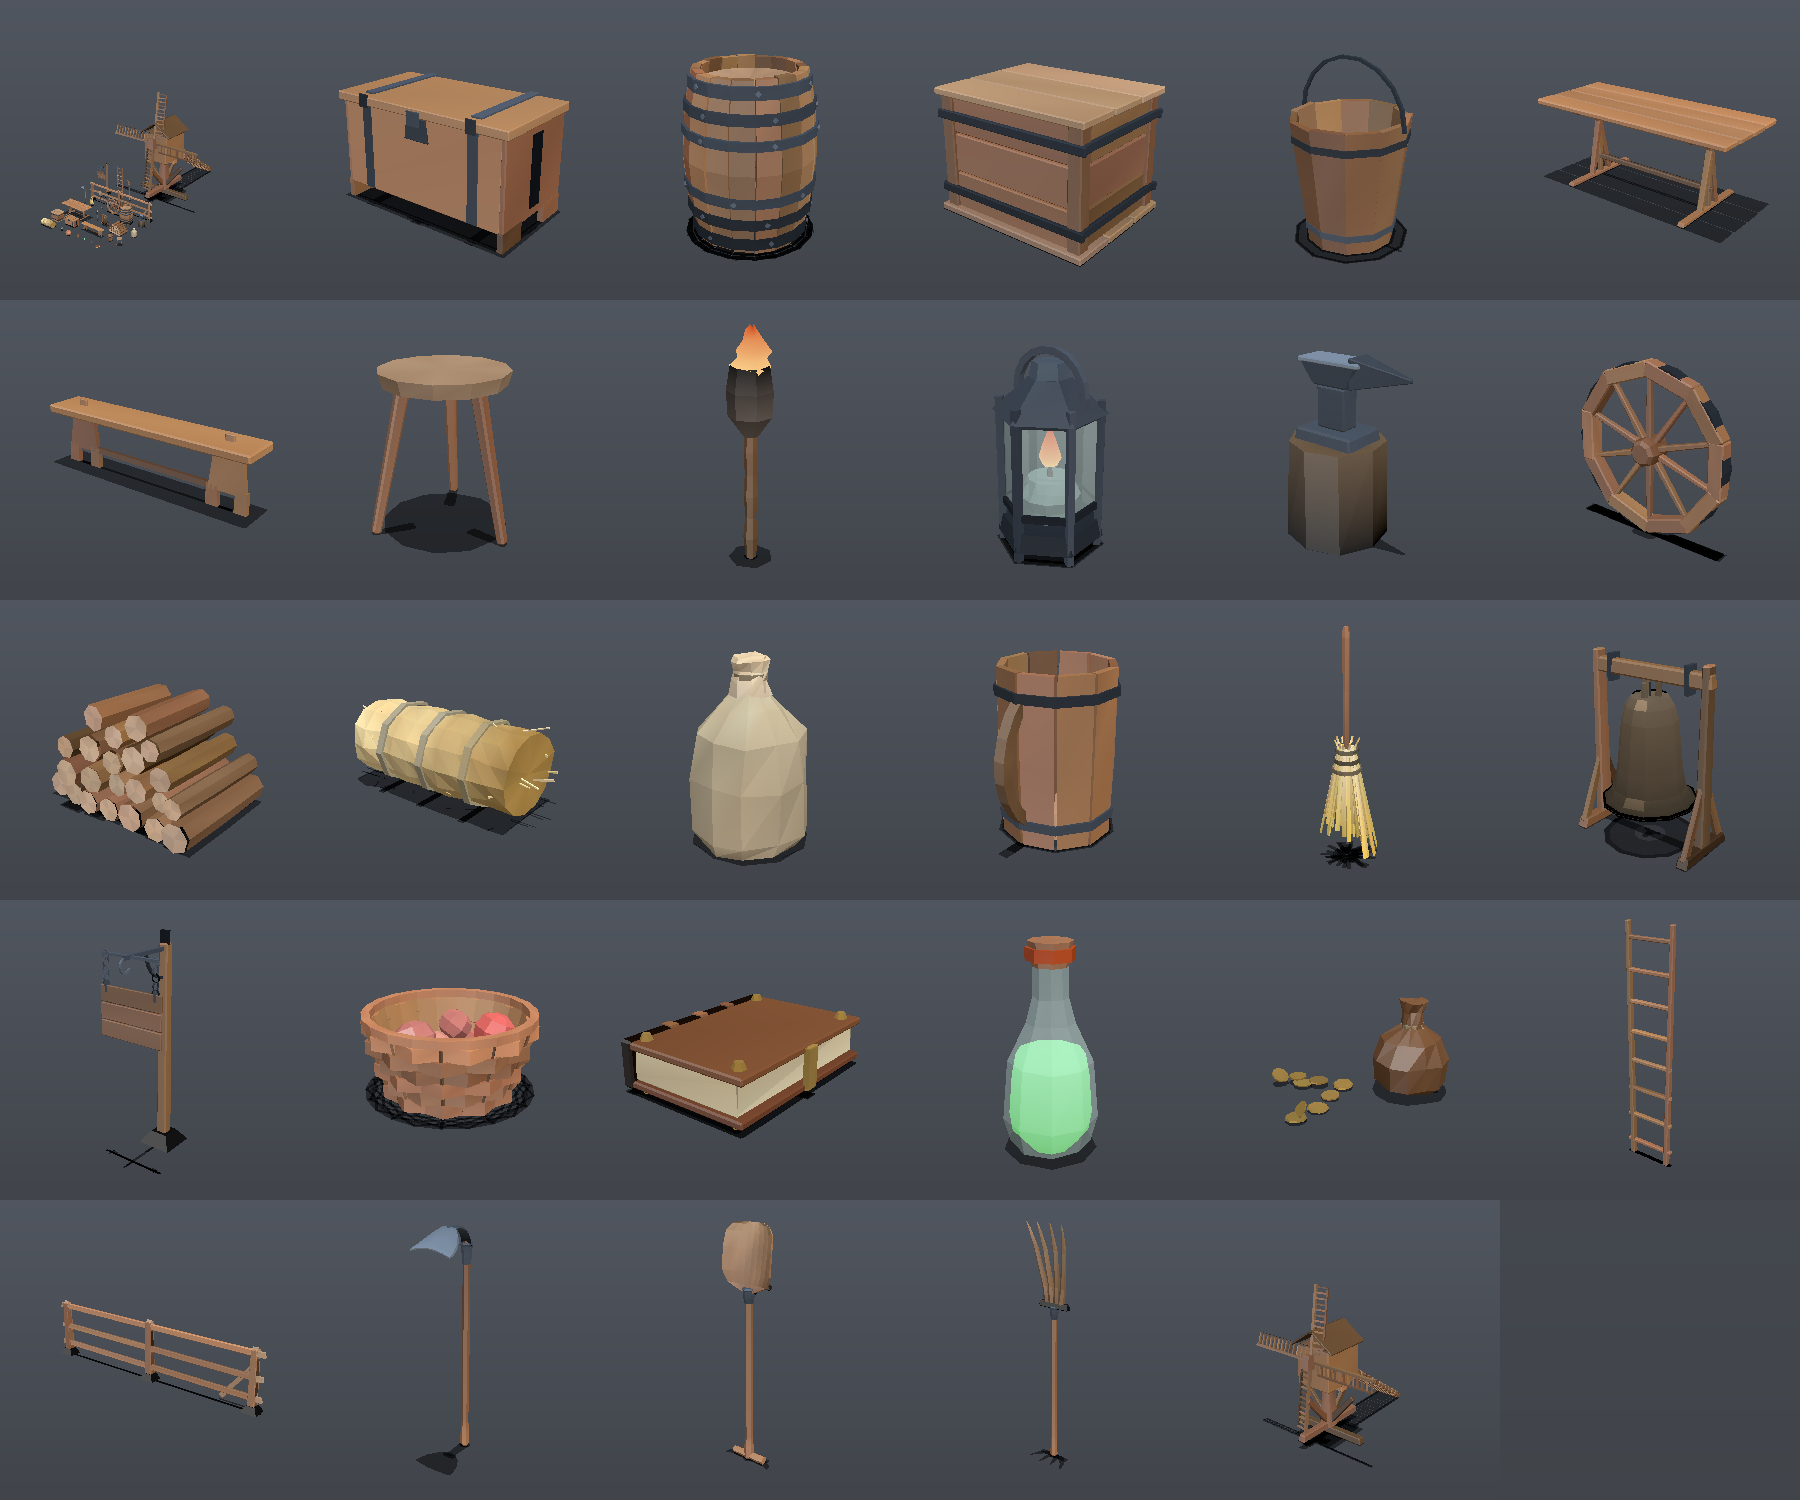
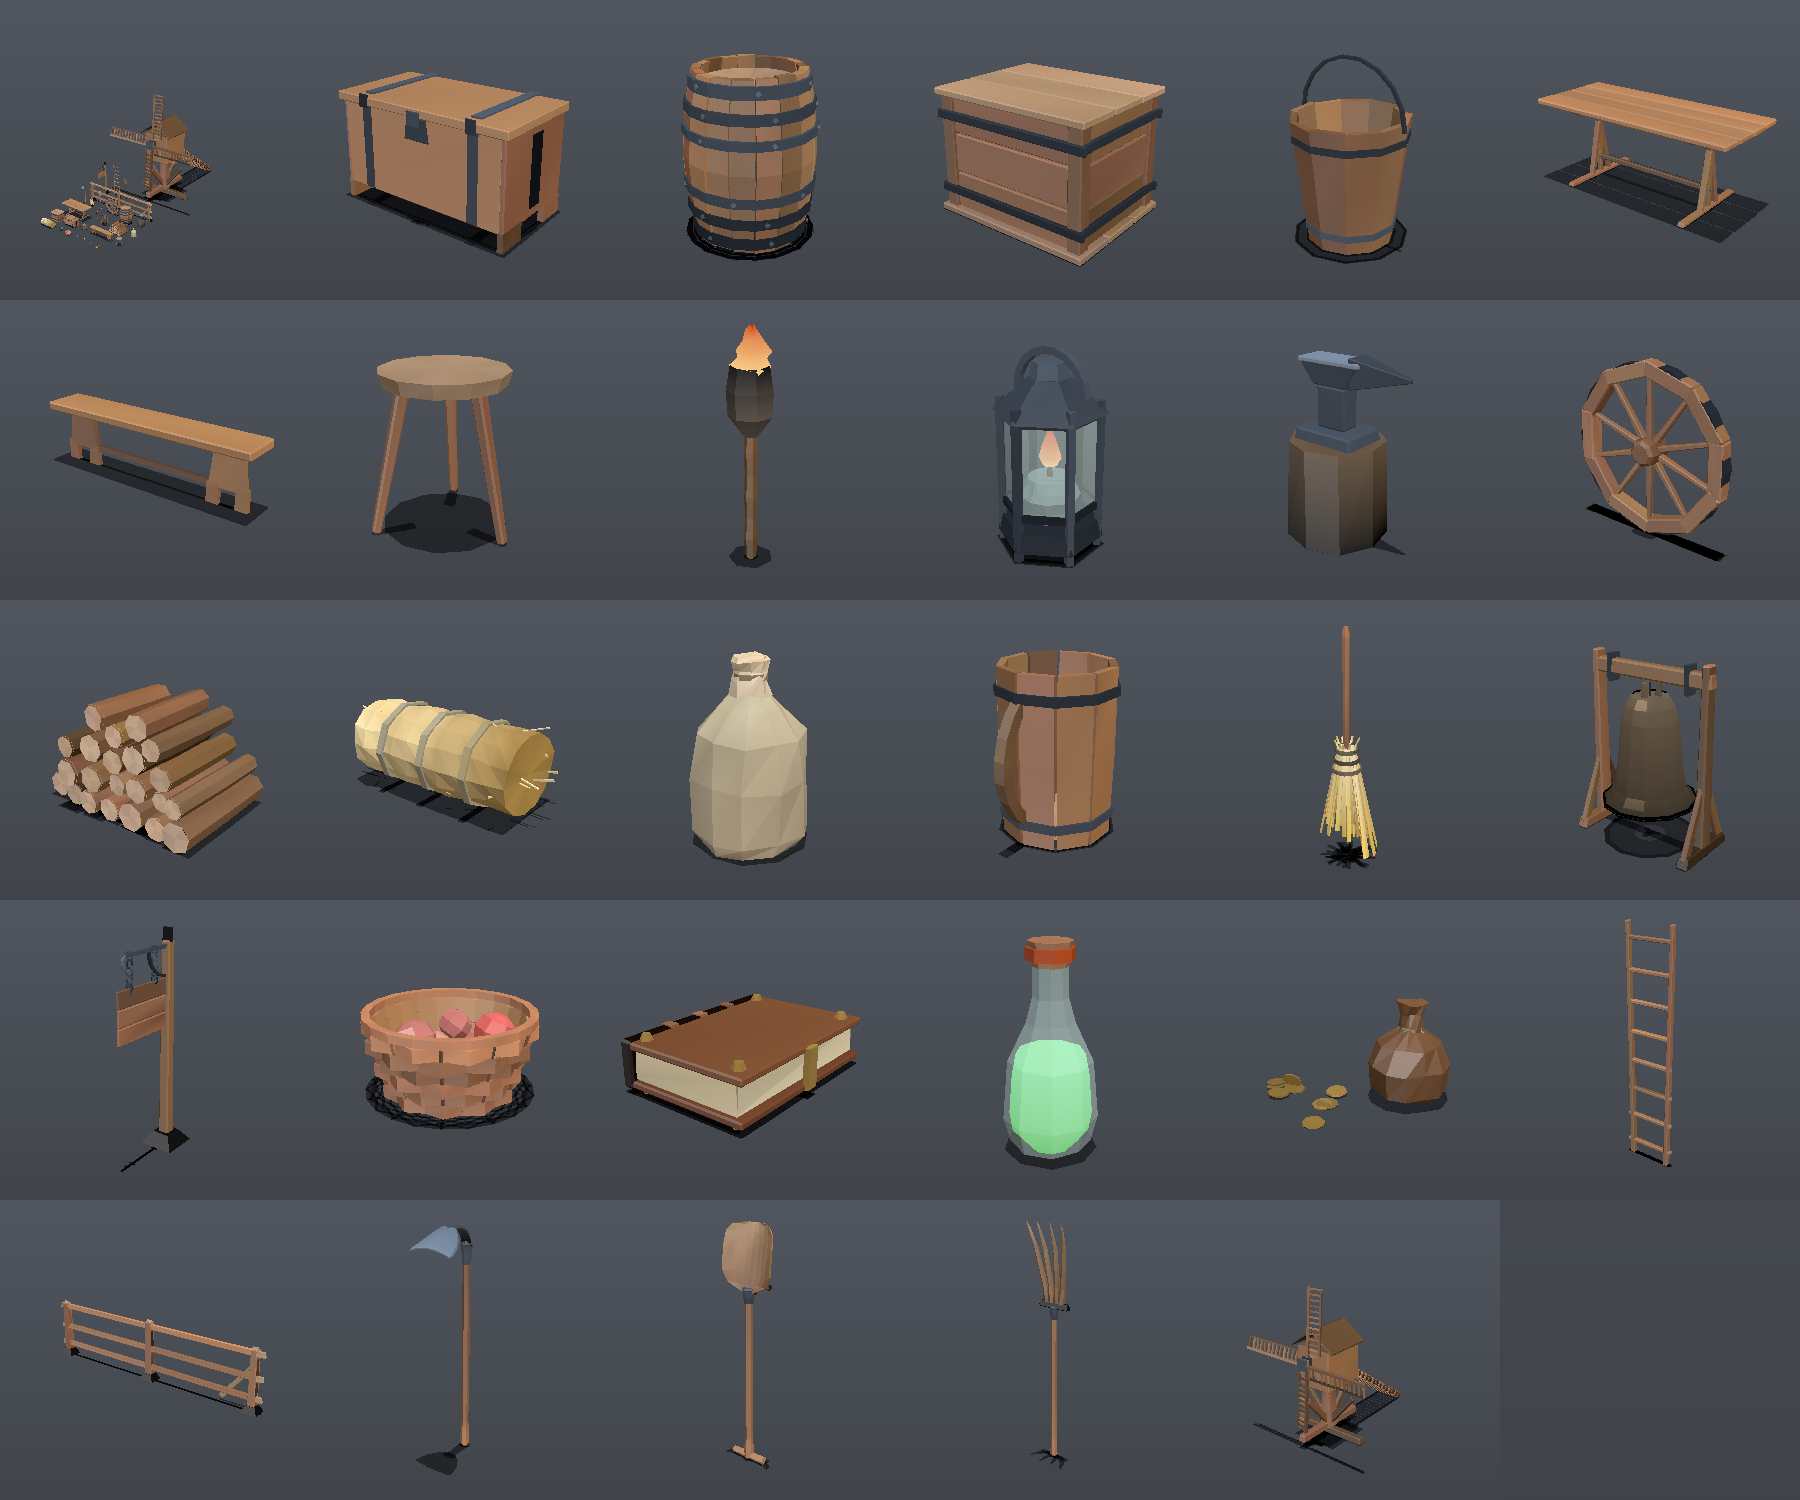
Refresh the catalogue table and contact sheet
The mill and the sign both changed shape after the table was last generated,
so it was claiming 20 523 triangles against 20 667 and drawing the sign the
wrong way round.

diff --git a/my-registry/README.md b/my-registry/README.md
@@ -38,31 +38,31 @@ did once.
 | `wooden-crate` | Props | 1320 | 3 | 0.69×0.52×0.55 | oak, iron |  |
 | `wooden-bucket` | Props | 439 | 4 | 0.31×0.46×0.30 | oak, iron |  |
 | `trestle-table` | Furniture | 660 | 3 | 1.91×0.74×0.78 | oak |  |
-| `wooden-bench` | Furniture | 216 | 3 | 1.62×0.49×0.30 | oak |  |
+| `wooden-bench` | Furniture | 216 | 3 | 1.62×0.45×0.30 | oak |  |
 | `wooden-stool` | Furniture | 180 | 2 | 0.38×0.43×0.36 | oak |  |
 | `pitch-torch` | Lighting | 239 | 3 | 0.13×0.70×0.13 | oak, char, ember | ✔ |
 | `iron-lantern` | Lighting | 480 | 4 | 0.15×0.30×0.17 | iron, glass, char, ember | ✔ |
 | `iron-anvil` | Smithy | 256 | 6 | 0.54×0.75×0.41 | iron, steel, oak |  |
 | `cart-wheel` | Structure | 1136 | 4 | 1.04×1.06×0.19 | oak, iron |  |
-| `log-pile` | Props | 924 | 2 | 0.98×0.58×0.71 | oak |  |
+| `log-pile` | Props | 924 | 2 | 0.99×0.58×0.70 | oak |  |
 | `hay-bale` | Props | 910 | 3 | 1.04×0.42×0.43 | straw, cloth |  |
 | `linen-sack` | Props | 342 | 3 | 0.34×0.53×0.33 | cloth |  |
 | `oak-tankard` | Props | 390 | 4 | 0.11×0.16×0.14 | oak, iron |  |
 | `straw-broom` | Tools | 1048 | 3 | 0.30×1.22×0.30 | oak, straw, cloth |  |
 | `bronze-bell` | Props | 1048 | 4 | 0.51×0.68×0.36 | brass, iron, oak | ✔ |
-| `tavern-sign` | Props | 888 | 3 | 0.72×2.29×0.86 | oak, iron | ✔ |
+| `tavern-sign` | Props | 876 | 3 | 0.38×2.29×0.93 | oak, iron | ✔ |
 | `wicker-basket` | Props | 2326 | 3 | 0.34×0.16×0.35 | oak, produce |  |
 | `leather-book` | Props | 440 | 3 | 0.20×0.08×0.27 | leather, cloth, brass |  |
 | `glass-phial` | Props | 339 | 3 | 0.06×0.14×0.06 | glass, ember, oak, char |  |
-| `coin-pouch` | Props | 602 | 3 | 0.18×0.11×0.19 | leather, cloth, brass |  |
+| `coin-pouch` | Props | 602 | 3 | 0.18×0.11×0.16 | leather, cloth, brass |  |
 | `wooden-ladder` | Structure | 440 | 2 | 0.49×2.20×0.06 | oak |  |
 | `wooden-fence` | Structure | 860 | 2 | 5.18×1.31×0.31 | oak |  |
 | `wooden-hoe` | Tools | 394 | 3 | 0.23×1.23×0.33 | oak, iron, steel |  |
 | `wooden-shovel` | Tools | 496 | 3 | 0.27×1.20×0.08 | oak, iron |  |
 | `wooden-pitchfork` | Tools | 392 | 3 | 0.27×1.58×0.15 | oak, iron |  |
-| `post-mill` | Structure | 1516 | 4 | 6.60×7.22×6.98 | oak, iron |  |
+| `post-mill` | Structure | 1672 | 4 | 6.60×7.23×6.98 | oak, iron |  |
 
-**20 523 triangles** in total. The whole kit in one scene costs less than a
+**20 667 triangles** in total. The whole kit in one scene costs less than a
 single mid-complexity character model.
 
 Every model depends on `@medieval-kit/core`, a shared support item holding the
